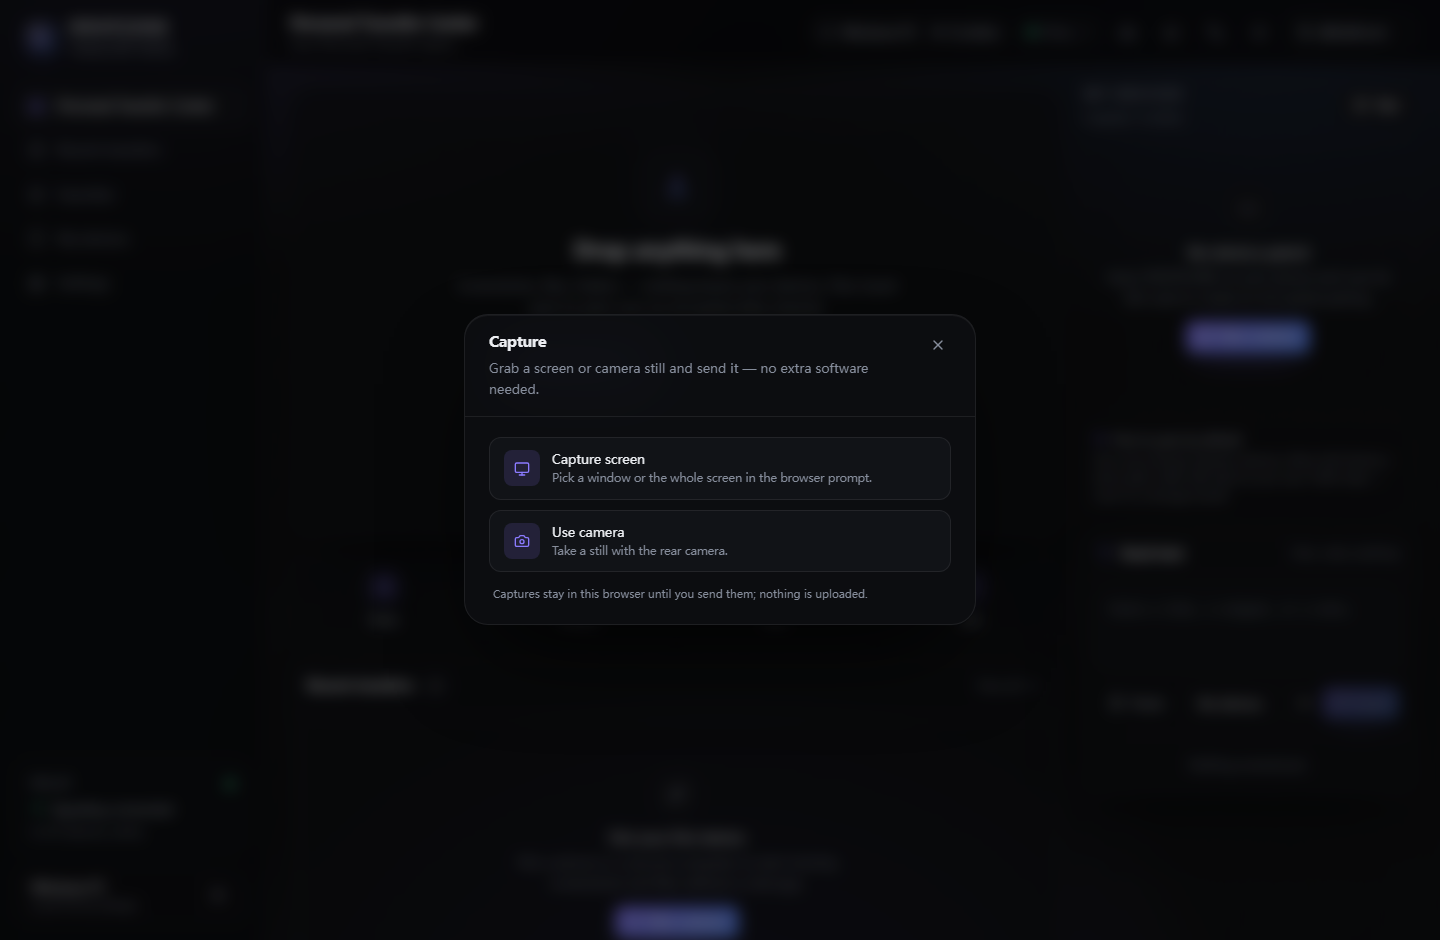
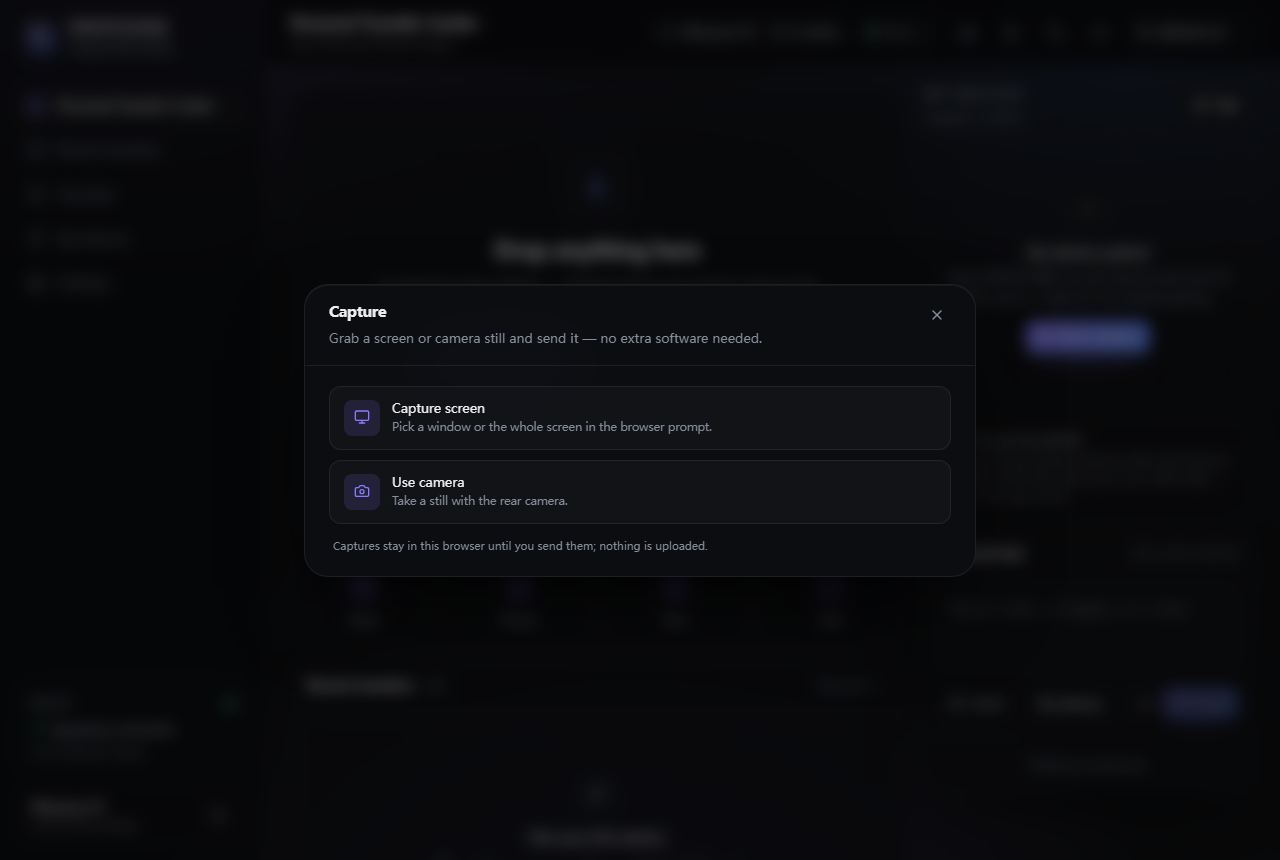
DROPZONE 1.0.0 — local-first P2P transfer workspace
React + Vite + Tailwind UI, WebRTC data-channel transfer engine with
64 KiB chunking and incremental SHA-256 verification, ECDSA device
identity with one-time QR pairing, Dexie local history, protocol v1
signaling relay (Node + Cloudflare Worker) and coturn config.

diff --git a/src/components/CaptureDialog.tsx b/src/components/CaptureDialog.tsx
@@ -77,6 +77,39 @@ export function CaptureDialog({ open, onClose }: { open: boolean; onClose: () =>
     return await new Promise<Blob | null>((resolve) => canvas.toBlob((value) => resolve(value), 'image/png'));
   };
 
+  /** Draws the live stream into a bitmap after the first frames have arrived. */
+  const paint = async (stream: MediaStream, width: number, height: number) => {
+    const canvas = document.createElement('canvas');
+    canvas.width = width;
+    canvas.height = height;
+    const context = canvas.getContext('2d');
+    if (!context) throw new Error(t('cap.failed'));
+    // Draw through an offscreen <video> that has actually produced frames.
+    const video = document.createElement('video');
+    video.srcObject = stream;
+    video.muted = true;
+    video.playsInline = true;
+    video.style.cssText = 'position:fixed;left:-9999px;top:0;width:2px;height:2px;opacity:0;pointer-events:none';
+    document.body.appendChild(video);
+    try {
+      const started = video.play();
+      if (started && typeof started.then === 'function') await started.catch(() => undefined);
+      const deadline = Date.now() + 4000;
+      while (video.videoWidth === 0 && Date.now() < deadline) {
+        await new Promise((resolve) => setTimeout(resolve, 60));
+      }
+      await new Promise((resolve) => setTimeout(resolve, 220));
+      context.drawImage(video, 0, 0, width, height);
+      const blob = await new Promise<Blob | null>((resolve) => canvas.toBlob((value) => resolve(value), 'image/png'));
+      if (!blob) throw new Error(t('cap.failed'));
+      const bitmap = await createImageBitmap(blob);
+      setRaw({ bitmap, width: bitmap.width, height: bitmap.height });
+      setRect(null);
+    } finally {
+      video.remove();
+    }
+  };
+
   const captureScreen = async () => {
     setError('');
     setBusy(true);
@@ -89,32 +122,40 @@ export function CaptureDialog({ open, onClose }: { open: boolean; onClose: () =>
       const video = document.createElement('video');
       video.srcObject = stream;
       video.muted = true;
-      await video.play();
-      // Two frames of headroom so the first paint is never black.
-      await new Promise((resolve) => setTimeout(resolve, 240));
-      const track = stream.getVideoTracks()[0];
-      const settings = track.getSettings();
-      const width = settings.width ?? video.videoWidth;
-      const height = settings.height ?? video.videoHeight;
-      const canvas = document.createElement('canvas');
-      canvas.width = width;
-      canvas.height = height;
-      canvas.getContext('2d')?.drawImage(video, 0, 0, width, height);
-      stream.getTracks().forEach((entry) => entry.stop());
-      const blob = await new Promise<Blob | null>((resolve) => canvas.toBlob((value) => resolve(value), 'image/png'));
-      if (!blob) throw new Error(t('cap.failed'));
-      const bitmap = await createImageBitmap(blob);
-      setRaw({ bitmap, width: bitmap.width, height: bitmap.height });
-      setRect(null);
+      video.playsInline = true;
+      video.setAttribute('playsinline', 'true');
+      // A detached <video> can refuse to start in some browsers, so keep it in the
+      // DOM (invisible) and never block the flow on a play() promise that stalls.
+      video.style.cssText = 'position:fixed;left:-9999px;top:0;width:2px;height:2px;opacity:0;pointer-events:none';
+      document.body.appendChild(video);
+      try {
+        await Promise.race([video.play().catch(() => undefined), new Promise((resolve) => setTimeout(resolve, 1500))]);
+        const deadline = Date.now() + 3000;
+        while (video.videoWidth === 0 && Date.now() < deadline) {
+          await new Promise((resolve) => setTimeout(resolve, 60));
+        }
+        // Two frames of headroom so the first paint is never black.
+        await new Promise((resolve) => setTimeout(resolve, 240));
+        const track = stream.getVideoTracks()[0];
+        const settings = track.getSettings();
+        const width = video.videoWidth || settings.width || 0;
+        const height = video.videoHeight || settings.height || 0;
+        // Never paint from the probe <video>; hand the stream to the canvas helper.
+        if (!width || !height) throw new Error(t('cap.failed'));
+        await paint(stream, width, height);
+      } finally {
+        video.remove();
+        stream.getTracks().forEach((entry) => entry.stop());
+      }
     } catch (cause) {
       const message = (cause as Error).message;
       if (message === t('cap.unsupported') || message === t('cap.failed')) setError(message);
-      else if (/denied|NotAllowed/i.test(message)) setError(t('cap.denied'));
       else setError(t('cap.denied'));
     } finally {
       setBusy(false);
     }
   };
+
 
   const startCamera = async () => {
     setError('');

diff --git a/src/lib/i18n.ts b/src/lib/i18n.ts
@@ -45,7 +45,10 @@ const DICT: Record<string, [string, string]> = {
   ],
   'cap.pickInstead': ['Pick an image instead', '改为选择图片'],
   'cap.unsupported': ['This browser cannot capture the screen.', '当前浏览器不支持屏幕捕获。'],
-  'cap.failed': ['The capture produced no image.', '捕获没有产生图像。'],
+  'cap.failed': [
+    'The capture produced no image. Try again and keep the shared window visible for a second, or use Pick an image instead.',
+    '这次捕获没有画面。请重试，并让被共享的窗口保持可见一秒；也可以点「改为选择图片」。',
+  ],
   'cap.privacy': ['Captures stay in this browser until you send them; nothing is uploaded.', '截图只留在本浏览器，除非你发送，否则不会上传。'],
   'cap.staged': ['Screenshot staged', '截图已加入待发送'],
   'cap.stagedBody': ['Pick a device and hit send.', '选择设备后点击发送。'],
